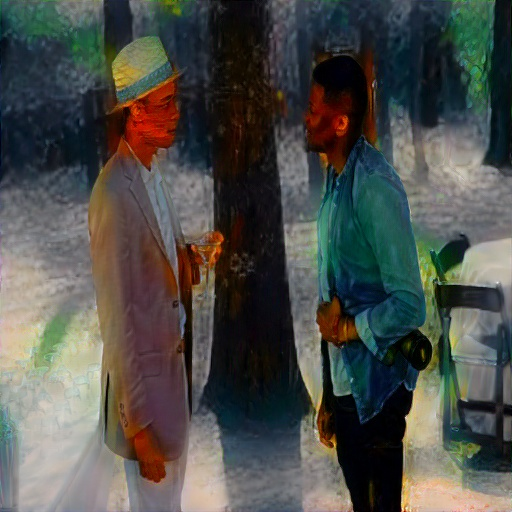
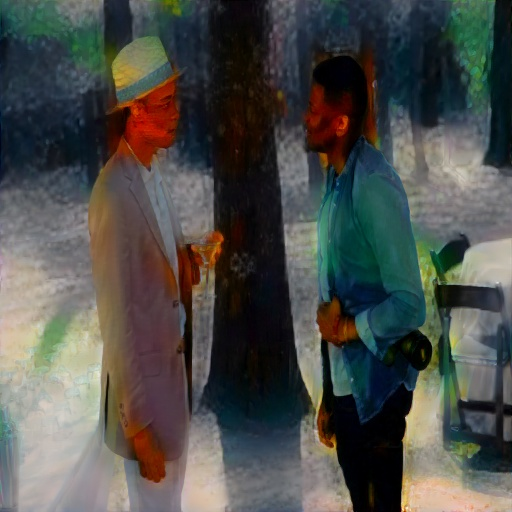
update

diff --git a/sematic_neural_style_transfer.py b/sematic_neural_style_transfer.py
@@ -199,7 +199,20 @@ def run_style_transfer(cnn, content_img, style_img,
 #######################
 # --- Sematic NSF --- # 
 #######################
-def get_sematic_style_model_and_losses(cnn, style_img_1, style_img_2, content_img):
+class TVLoss(nn.Module):
+    
+    def __init__(self, strength):
+        super(TVLoss, self).__init__()
+        self.strength = strength
+    
+    def forward(self, input):
+        self.x_diff = input[:,:,1:,:] - input[:,:,:-1,:]
+        self.y_diff = input[:,:,:,1:] - input[:,:,:,:-1]
+        self.loss = self.strength * (torch.sum(torch.abs(self.x_diff)) + torch.sum(torch.abs(self.y_diff)))
+        return input
+
+
+def get_sematic_style_model_and_losses(cnn, style_img_1, style_img_2, content_img, tv_weight=0.000085):
     
     cnn = copy.deepcopy(cnn)
     
@@ -220,12 +233,18 @@ def get_sematic_style_model_and_losses(cnn, style_img_1, style_img_2, content_im
     content_losses = []
     style_losses_1 = []
     style_losses_2 = []
+    tv_losses = []
 
     # assuming that cnn is a nn.Sequential, so we make a new nn.Sequential
     # to put in modules that are supposed to be activated sequentially
     content_model = nn.Sequential(normalization)
     style_model_1 = nn.Sequential(normalization)
     style_model_2 = nn.Sequential(normalization)
+
+
+    tv_mod = TVLoss(tv_weight).to(device)
+    content_model.add_module(str(len(content_model)), tv_mod)
+    tv_losses.append(tv_mod)
 
     i = 0  # increment every time we see a conv
     for layer in cnn.children():
@@ -277,7 +296,7 @@ def get_sematic_style_model_and_losses(cnn, style_img_1, style_img_2, content_im
     style_model_1 = style_model_1[:(i + 1)]
     style_model_2 = style_model_2[:(i + 1)]
 
-    return (content_model, style_model_1, style_model_2), (content_losses, style_losses_1, style_losses_2)
+    return (content_model, style_model_1, style_model_2), (content_losses, style_losses_1, style_losses_2), tv_losses
 
 
 def get_inputs_optimizer(input_img1, input_img2, sematic_map):
@@ -288,7 +307,7 @@ def get_inputs_optimizer(input_img1, input_img2, sematic_map):
 
 def run_sematic_style_transfer(cnn, style_img_1, style_img_2, content_img,
                        sematic_map_1, sematic_map_2,
-                       style_weight=1e6, style_blend_weight=1e3, content_weight=1,
+                       style_weight=1e6, style_blend_weight=1e3, content_weight=1, tv_weight=0.000085,
                        num_steps=300):
     
     sematic_map_1_origin = sematic_map_1.clone()
@@ -301,7 +320,7 @@ def run_sematic_style_transfer(cnn, style_img_1, style_img_2, content_img,
     # rest_map.data.clamp_(0, 1)
     synthesis_img = input_img_1 * sematic_map_1 + input_img_2 * sematic_map_2 
     
-    models, losses  = get_sematic_style_model_and_losses(cnn, style_img_1, style_img_2, content_img)
+    models, losses, tv_losses  = get_sematic_style_model_and_losses(cnn, style_img_1, style_img_2, content_img, tv_weight=tv_weight)
     content_model, style_model_1, style_model_2 = models
     content_losses, style_losses_1, style_losses_2 = losses
     
@@ -332,10 +351,12 @@ def run_sematic_style_transfer(cnn, style_img_1, style_img_2, content_img,
                 style_score += sl.loss
             style_score *= style_weight
             
-            # --- Content Loss --- #
+            # --- Content Loss --- # (Add TV loss)
             content_model(synthesis_img)
             for cl in content_losses:
                 content_score += cl.loss
+            for mod in tv_losses:
+                content_score += mod.loss
             content_score *= content_weight
             
             # --- Style Blending Loss --- #

diff --git a/main.py b/main.py
@@ -26,7 +26,7 @@ device = torch.device("cuda" if torch.cuda.is_available() else "cpu")
 if __name__ == '__main__':
 
     # Image Path
-    content_img_path = "images/content_img/people.jpg"
+    content_img_path = "images/content_img/people2.jpg"
     style_img_1_path = "images/style_img/bright.jpeg"
     style_img_2_path = "images/style_img/dark.jpg"
     num_steps = 300
@@ -76,6 +76,7 @@ if __name__ == '__main__':
     # --- Sematic Neural Style Transfer --- #
     print("# --- Sematic Neural Style Transfer --- #")
     style_weight=1e6
+    tv_weight=0.000085
     input_img_1_list = []
     input_img_2_list = []
     synthesis_img_list = []
@@ -87,8 +88,8 @@ if __name__ == '__main__':
         style_blend_weight = style_weight * ratio
         print("--Blend Ratio:", ratio)
         input_img_1, input_img_2, synthesis_img = run_sematic_style_transfer(
-            cnn, style_img_1, style_img_2, content_img,sematic_map_1.clone(), sematic_map_2,
-            style_weight=style_weight, style_blend_weight=style_blend_weight, content_weight=1, num_steps=num_steps
+            cnn, style_img_1, style_img_2, content_img, sematic_map_1.clone(), sematic_map_2,
+            style_weight=style_weight, style_blend_weight=style_blend_weight, content_weight=1, tv_weight=tv_weight, num_steps=num_steps
         )
         input_img_1_list.append(input_img_1)
         input_img_2_list.append(input_img_2)

diff --git a/README.md b/README.md
@@ -1,7 +1,8 @@
 # MultiStyle Sematic Style Transfer
-This project is aimed to transfer different sematic objects in one image into different style.
+This project is aimed to transfer different sematic objects in one image into different styles.
 
 - [x] On-line Image Optimization
+- [x] Add Total Variation Loss (encourages spatial smoothness in the generated image)
 - [ ] MRF-based blending
 - [ ] Off-line Model optimization
 - [ ] Video style tranfer
